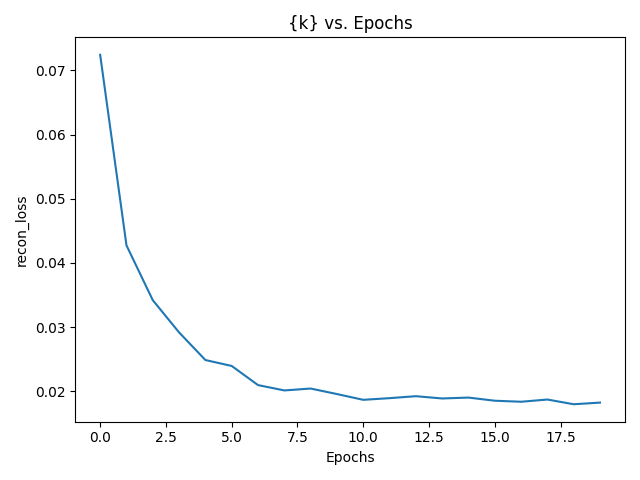
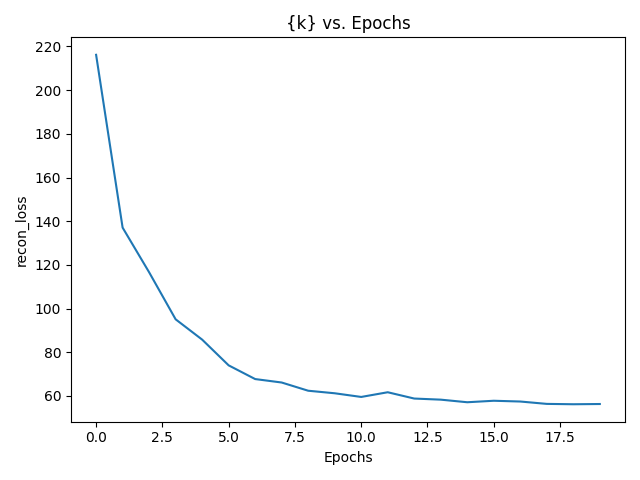
Progress for diffusion models

diff --git a/generative-modeling/vae/train.py b/generative-modeling/vae/train.py
@@ -16,10 +16,12 @@ from utils import *
 
 def ae_loss(model, x):
     """
-    TODO 2.2: fill in MSE loss between x and its reconstruction.
+    2.2: fill in MSE loss between x and its reconstruction.
     return loss, {recon_loss = loss}
     """
-    loss = F.mse_loss(model.decoder(model.encoder(x)), x)
+    recon_residual = (x - model.decoder(model.encoder(x))).view(x.shape[0], -1)
+    loss = torch.norm(recon_residual, dim = 1)**2
+    loss = loss.mean()
     return loss, OrderedDict(recon_loss=loss)
 
 def vae_loss(model, x, beta = 1):
@@ -29,26 +31,30 @@ def vae_loss(model, x, beta = 1):
     (https://stats.stackexchange.com/questions/318748/deriving-the-kl-divergence-loss-for-vaes).
     return loss, {recon_loss = loss}
     """
-    # Sample eps from a standard normal
-    eps = torch.randn(x.shape)
 
     # Q is the encoder, take the learned sigma and covariance
-    Q_mu, Q_sigma = model.encoder(x)
+    Q_mu, Q_log_sigma = model.encoder(x)
+    Q_sigma           = torch.exp(Q_log_sigma)
 
     # Calculate the KL divergence for the batch
-    kl_loss = 1/2 * (torch.sum(Q_mu**2) + torch.sum(Q_sigma**2) - torch.sum(Q_sigma**2 + 1)) #- beta
+    kl_loss = 1/2 * (torch.sum(Q_mu**2, dim = 1) + torch.sum(Q_sigma, dim = 1) - torch.sum(Q_log_sigma + 1, dim = 1))
+
+    # Sample eps from a standard normal
+    eps = torch.randn(Q_mu.shape).view(Q_mu.shape[0], -1).cuda()
 
     # This is the "learned" latent representation of the image, we want to see how well this reconstructs the image
-    z_given_x = eps * Q_sigma + Q_mu
+    z_given_x = eps * Q_sigma ** 0.5 + Q_mu
     f_z       = model.decoder(z_given_x)
 
     # Calculate the reconstruction loss
-    recon_loss = torch.norm(x - f_z)**2
+    recon_residual = (x - f_z).view(x.shape[0], -1)
+    recon_loss = torch.norm(recon_residual, dim = 1)**2
 
     # Total loss is just the sum
-    total_loss = recon_loss + kl_loss
+    kl_loss   *= beta
+    total_loss = (recon_loss + kl_loss).mean()
 
-    return total_loss, OrderedDict(recon_loss=recon_loss, kl_loss=kl_loss)
+    return total_loss, OrderedDict(recon_loss=recon_loss.mean(), kl_loss=kl_loss.mean())
 
 
 def constant_beta_scheduler(target_val = 1):
@@ -58,12 +64,14 @@ def constant_beta_scheduler(target_val = 1):
 
 def linear_beta_scheduler(max_epochs=None, target_val = 1):
     """
-    TODO 2.8 : Fill in helper. The value returned should increase linearly
+    2.8 : Fill in helper. The value returned should increase linearly
     from 0 at epoch 0 to target_val at epoch max_epochs
     """
-    #def _helper(epoch):
-    #return _helper
-    pass
+    # Linear increase
+    def _helper(epoch):
+        return target_val * (epoch/max_epochs)
+
+    return _helper
 
 def run_train_epoch(model, loss_mode, train_loader, optimizer, beta = 1, grad_clip = 1):
     model.train()

diff --git a/generative-modeling/diffusion/model.py b/generative-modeling/diffusion/model.py
@@ -29,25 +29,26 @@ class DiffusionModel(nn.Module):
         self.num_timesteps = self.betas.shape[0]
 
         alphas = 1. - self.betas
-        # TODO 3.1: compute the cumulative products for current and previous timesteps
-        self.alphas_cumprod = ...
-        self.alphas_cumprod_prev =  ...
 
-        # TODO 3.1: pre-compute values needed for forward process
+        # 3.1: compute the cumulative products for current and previous timesteps
+        self.alphas_cumprod      = torch.cumprod(alphas)
+        self.alphas_cumprod_prev =  torch.cat(torch.tensor([1]), self.alphas_cumprod[1:])
+
+        # 3.1: pre-compute values needed for forward process
         # This is the coefficient of x_t when predicting x_0
-        self.x_0_pred_coef_1 = ...
+        self.x_0_pred_coef_1 = 1/self.alphas_cumprod[-1]
         # This is the coefficient of pred_noise when predicting x_0
-        self.x_0_pred_coef_2 = ...
+        self.x_0_pred_coef_2 = torch.sqrt(1 - self.alphas_cumprod[-1]) / self.alphas_cumprod[-1]
 
-        # TODO 3.1: compute the coefficients for the mean
+        # 3.1: compute the coefficients for the mean
         # This is coefficient of x_0 in the DDPM section
-        self.posterior_mean_coef1 = ...
+        self.posterior_mean_coef1 = (torch.sqrt(self.alphas_cumprod_prev) * self.betas) / (1 - self.alphas_cumprod)
         # This is coefficient of x_t in the DDPM section
-        self.posterior_mean_coef2 = ...
+        self.posterior_mean_coef2 = (torch.sqrt(self.alphas_cumprod) * (1 - self.alphas_cumprod_prev)) / (1 - self.alphas_cumprod)
 
-        # TODO 3.1: compute posterior variance
+        # 3.1: compute posterior variance
         # calculations for posterior q(x_{t-1} | x_t, x_0) in DDPM
-        self.posterior_variance = ...
+        self.posterior_variance = self.betas * ((1 - self.alphas_cumprod_prev) / (1 - self.alphas_cumprod))
         self.posterior_log_variance_clipped = torch.log(
             self.posterior_variance.clamp(min =1e-20))
 
@@ -59,9 +60,15 @@ class DiffusionModel(nn.Module):
         self.ddim_sampling_eta = ddim_sampling_eta
 
     def get_posterior_parameters(self, x_0, x_t, t):
-        # TODO 3.1: Compute the posterior mean and variance for x_{t-1}
+        # 3.1: Compute the posterior mean and variance for x_{t-1}
         # using the coefficients, x_t, and x_0
         # hint: can use extract function from utils.py
+
+        # TODO: Use extract
+        posterior_mean     = self.posterior_mean_coef1[t] * x_0 + self.posterior_mean_coef2[t] * x_t
+        posterior_variance = self.posterior_variance[t]
+        posterior_log_variance_clipped = torch.log(posterior_variance)
+
         return posterior_mean, posterior_variance, posterior_log_variance_clipped
 
     def model_predictions(self, x_t, t):

diff --git a/generative-modeling/vae/model.py b/generative-modeling/vae/model.py
@@ -53,9 +53,9 @@ class VAEEncoder(Encoder):
     def forward(self, x):
         # 2.4: forward pass through the network.
         # should return a tuple of 2 tensors, mu and log_std
-        x       = self.fc(x)
-        mu      = x[:self.latent_dim]
-        log_std = x[self.latent_dim:]
+        x       = self.fc(x.view(x.shape[0], -1))
+        mu      = x[:, :self.latent_dim]
+        log_std = x[:, self.latent_dim:]
         return mu, log_std
 
 
